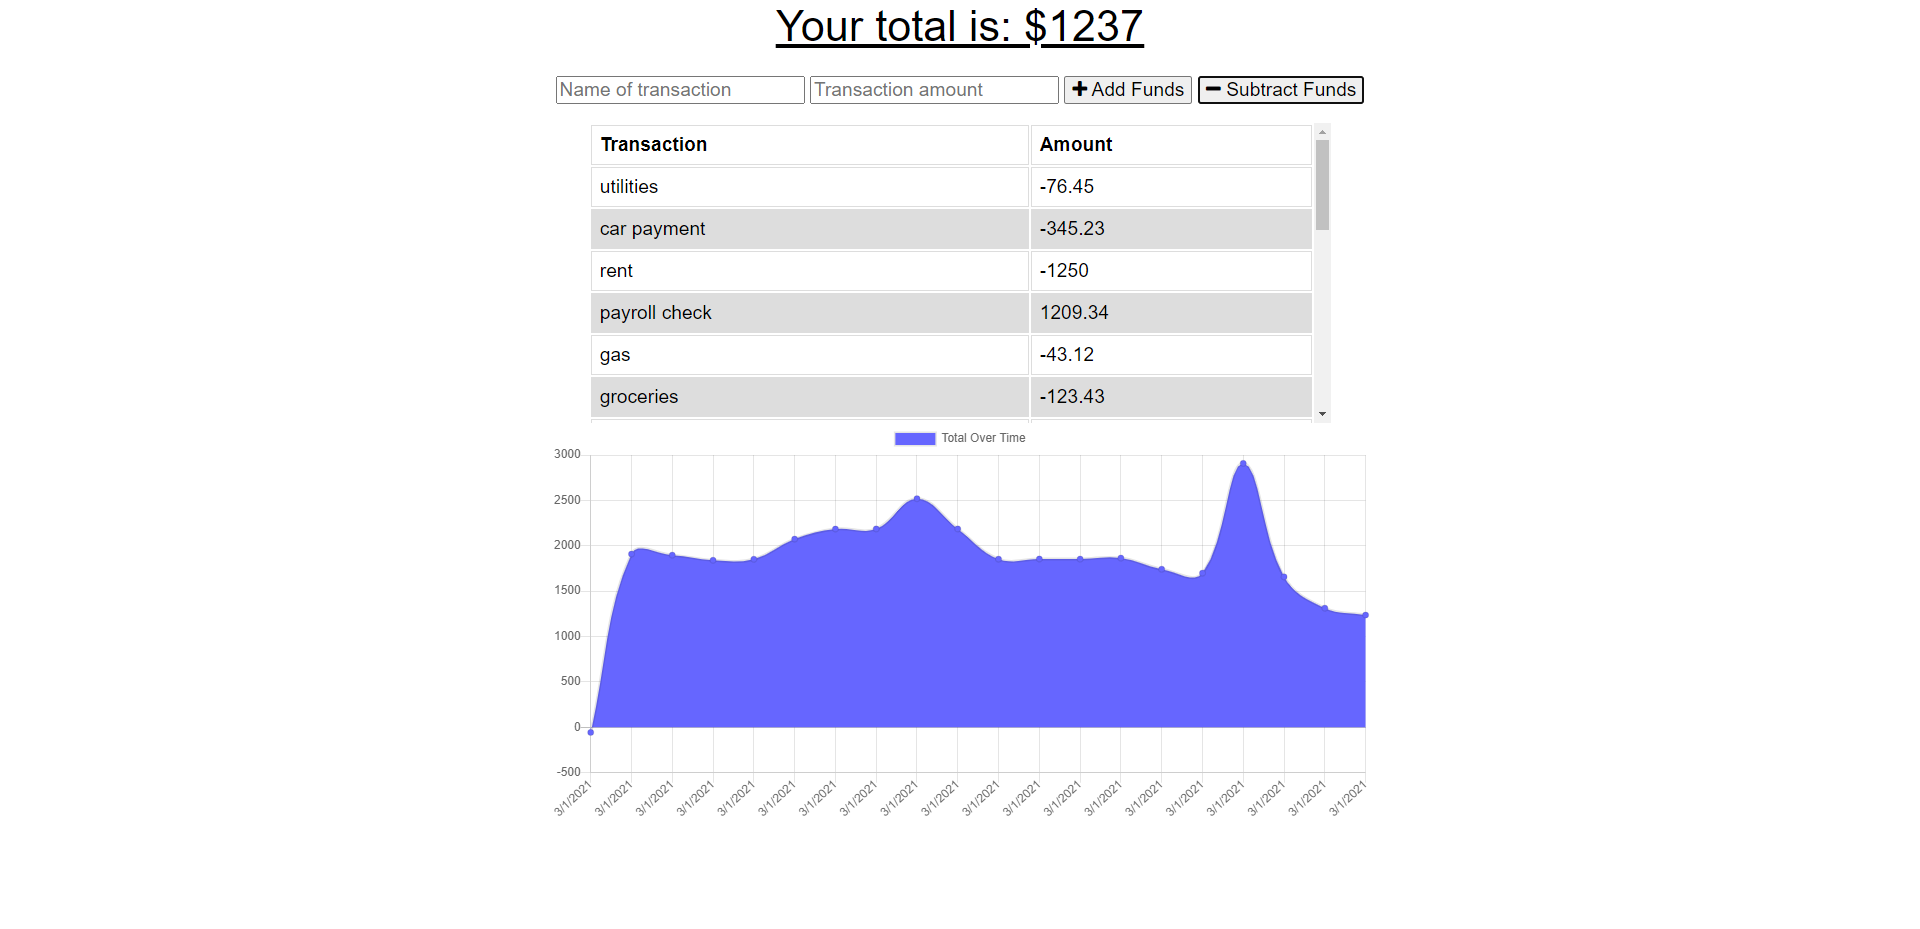
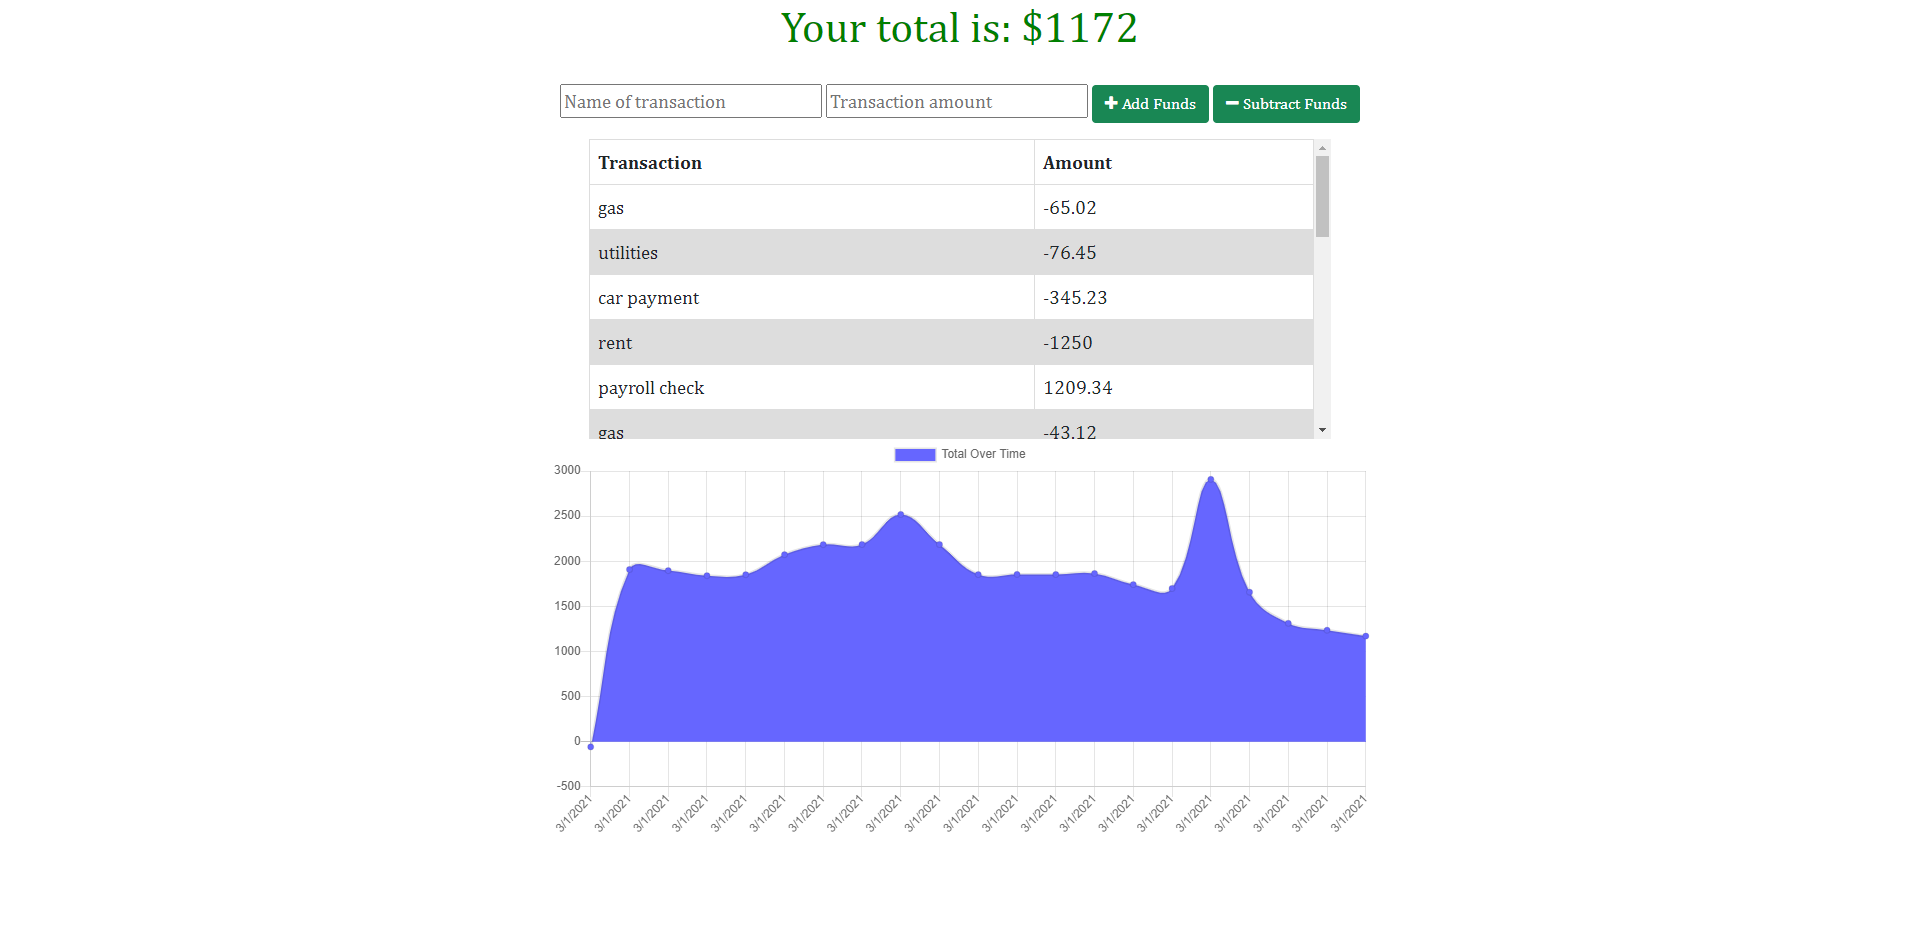
final commit

Changed region(s): [[0.2812, 0.0604, 0.7188, 0.6947], [0.2812, 0.7249, 0.7188, 0.9061], [0.4062, 0.0, 0.5938, 0.0604]]

diff --git a/public/index.html b/public/index.html
@@ -7,7 +7,8 @@
   <meta http-equiv="X-UA-Compatible" content="ie=edge">
   <meta name="theme-color" content="#317EFB">
   <link rel="shortcut icon" href="icons/icon-192x192.png" type="image/x-icon">
-
+  <link href="https://cdn.jsdelivr.net/npm/bootstrap@5.0.0-beta2/dist/css/bootstrap.min.css" rel="stylesheet"
+    integrity="sha384-BmbxuPwQa2lc/FVzBcNJ7UAyJxM6wuqIj61tLrc4wSX0szH/Ev+nYRRuWlolflfl" crossorigin="anonymous">
   <link rel="stylesheet" href="https://stackpath.bootstrapcdn.com/font-awesome/4.7.0/css/font-awesome.min.css">
   <link rel="stylesheet" href="assets/css/styles.css">
   <link rel="manifest" href="manifest.webmanifest">
@@ -34,8 +35,8 @@
     <div class="form">
       <input type="text" id="t-name" placeholder="Name of transaction" />
       <input type="number" min="0" id="t-amount" placeholder="Transaction amount" />
-      <button id="add-btn"><i class="fa fa-plus buttons"></i> Add Funds</button>
-      <button id="sub-btn"><i class="fa fa-minus"></i> Subtract Funds</button>
+      <button type="button" id="add-btn" class="btn btn-success"><i class="fa fa-plus buttons"></i> Add Funds</button>
+      <button type="button" id="sub-btn" class="btn btn-success"><i class="fa fa-minus"></i> Subtract Funds</button>
       <p class="error"></p>
     </div>
 

diff --git a/public/service-worker.js b/public/service-worker.js
@@ -7,6 +7,9 @@ const FILES_TO_CACHE = [
   "/assets/css/styles.css",
   "/assets/js/index.js",
   "/manifest.webmanifest",
+  "https://cdn.jsdelivr.net/npm/chart.js@2.8.0",
+  "https://stackpath.bootstrapcdn.com/font-awesome/4.7.0/css/font-awesome.min.css",
+  "https://cdn.jsdelivr.net/npm/bootstrap@5.0.0-beta2/dist/css/bootstrap.min.css",
   "/assets/images/icons/icon-192x192.png",
   "/assets/images/icons/icon-512x512.png",
 ];

diff --git a/public/assets/css/styles.css b/public/assets/css/styles.css
@@ -1,11 +1,11 @@
 body {
   font-size: 120%;
-  font-family: Arial;
+  font-family: Cambria, Cochin, Georgia, Times, 'Times New Roman', serif;
 }
 
 button, input {
   font-size: 100%;
-  font-family: Arial;
+  font-family: Cambria, Cochin, Georgia, Times, 'Times New Roman', serif;
 }
 
 table {
@@ -34,7 +34,7 @@ tr:nth-child(even) {
 
 .total {
   font-size: 150%;
-  text-decoration: underline;
+  color: green;
 }
 
 .form {

diff --git a/README.md b/README.md
@@ -2,8 +2,25 @@
 For this project, I will add functionality to our existing Budget Tracker application to allow for offline access and functionality.  The user will be able to add expenses and deposits to their budget with or without a connection. When entering transactions offline, they should populate the total when brought back online. 
 
 ## Tech Required: 
+* NodeJS
+    * Dependencies: 
+      * dotenv
+      * express
+      * mongoose
+      * morgan
+* Mongoose
+* MongoDB
+* IndexedDB
+* Chrome Dev Tools
+* Heroku
+* Service Worker
+* Manifest 
 
 ## Screenshots:
+<img src= "./public/assets/images/img1.png" >
+<img src= "./public/assets/images/img2.png" >
+<img src= "./public/assets/images/devtools.png" >
+<img src= "./public/assets/images/serivceworker.png" >
 
 ## View my work: 
 * https://blooming-dusk-07237.herokuapp.com/
